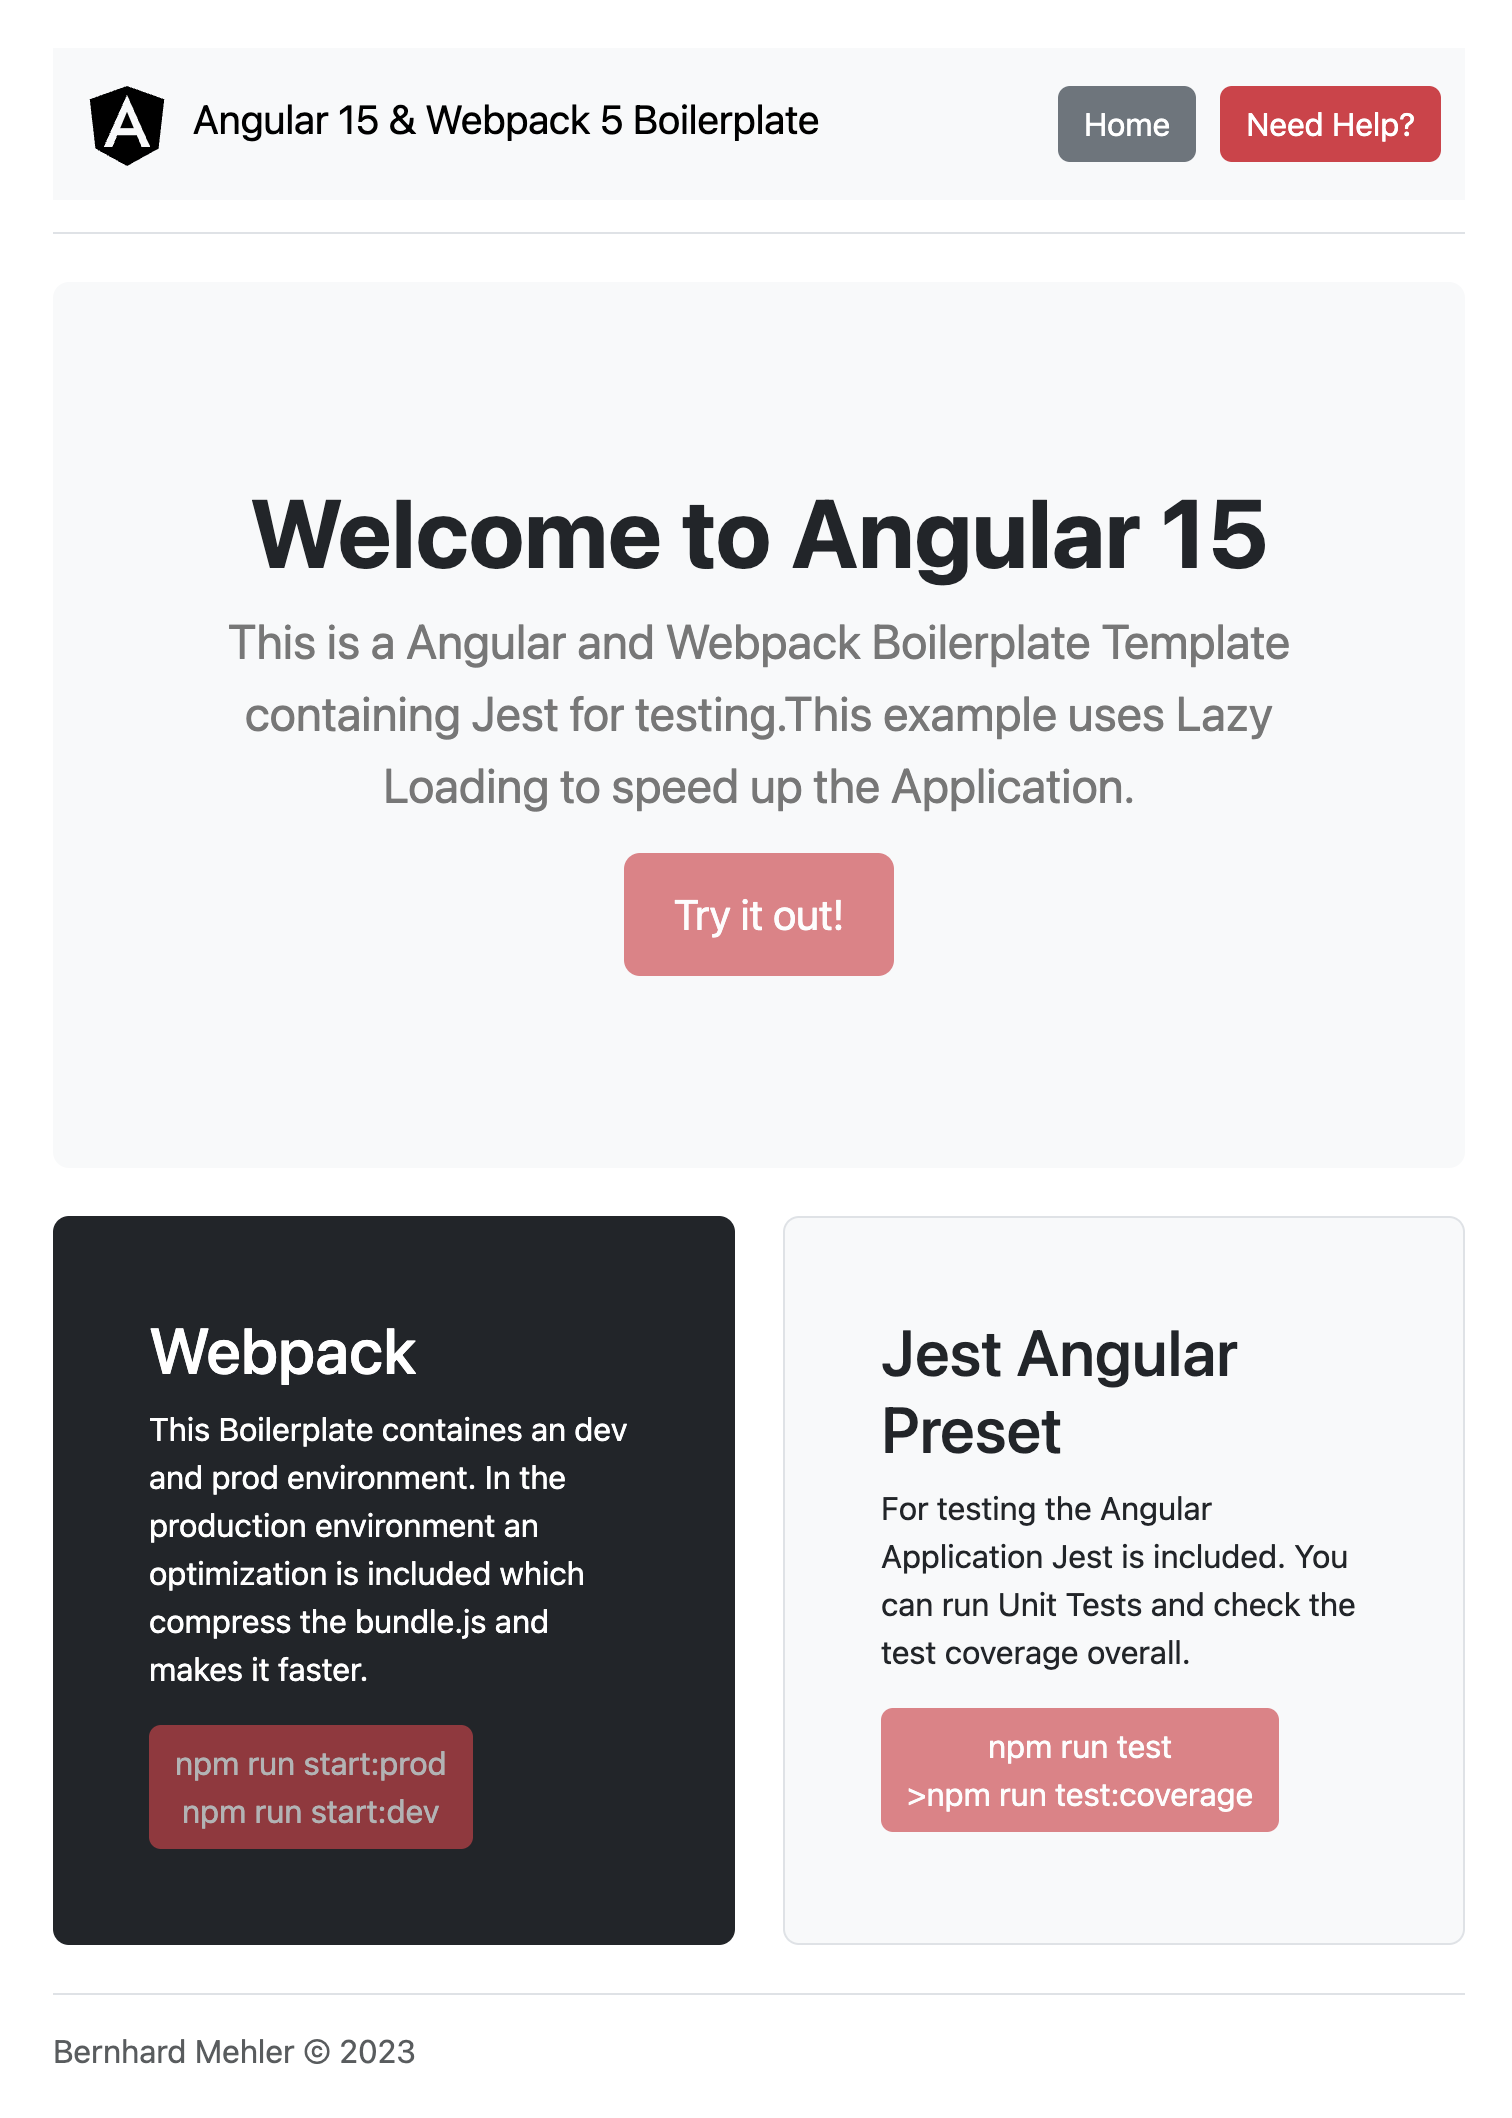
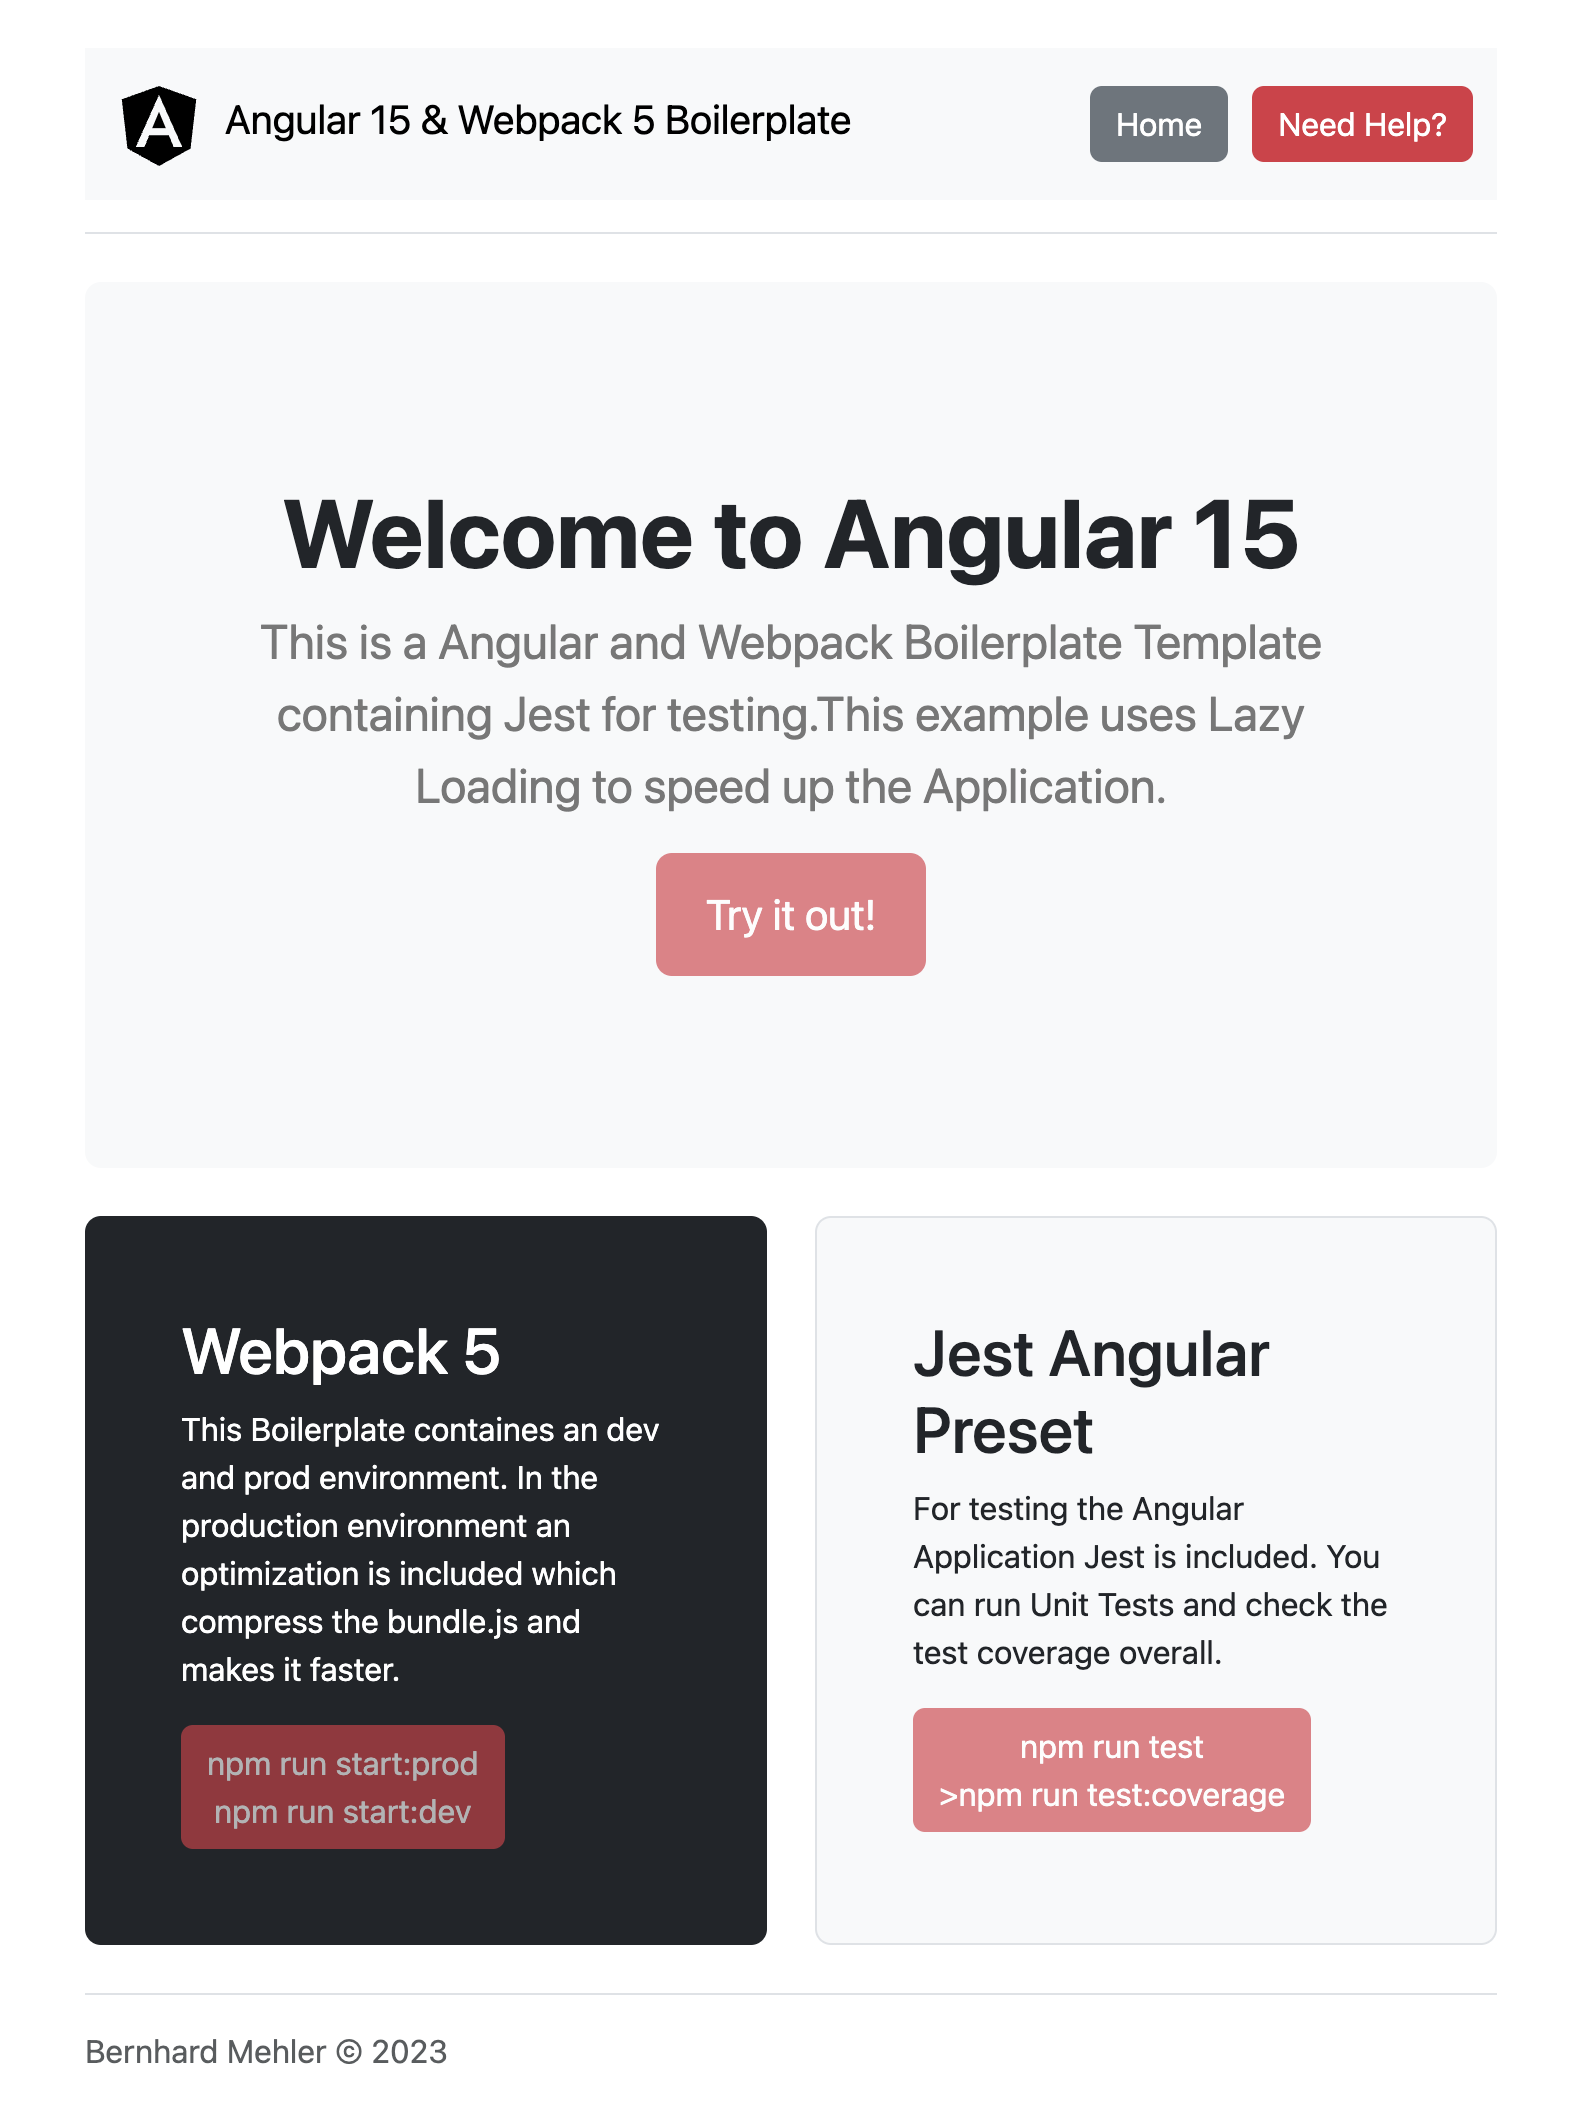
new screenshot added and template changed

diff --git a/src/app/features/home/home.component.ts b/src/app/features/home/home.component.ts
@@ -10,7 +10,7 @@ export class HomeComponent {
     welcomeText = 'This is a Angular and Webpack Boilerplate Template containing Jest for testing.This example uses Lazy Loading to speed up the Application.';
     welcomeButton = 'Try it out!';
 
-    webpackTitle = 'Webpack';
+    webpackTitle = 'Webpack 5';
     webpackText = 'This Boilerplate containes an dev and prod environment. In the production environment an optimization is included which compress the bundle.js and makes it faster.';
     webpackButtonText1 = 'npm run start:prod';
     webpackButtonText2 = 'npm run start:dev';
